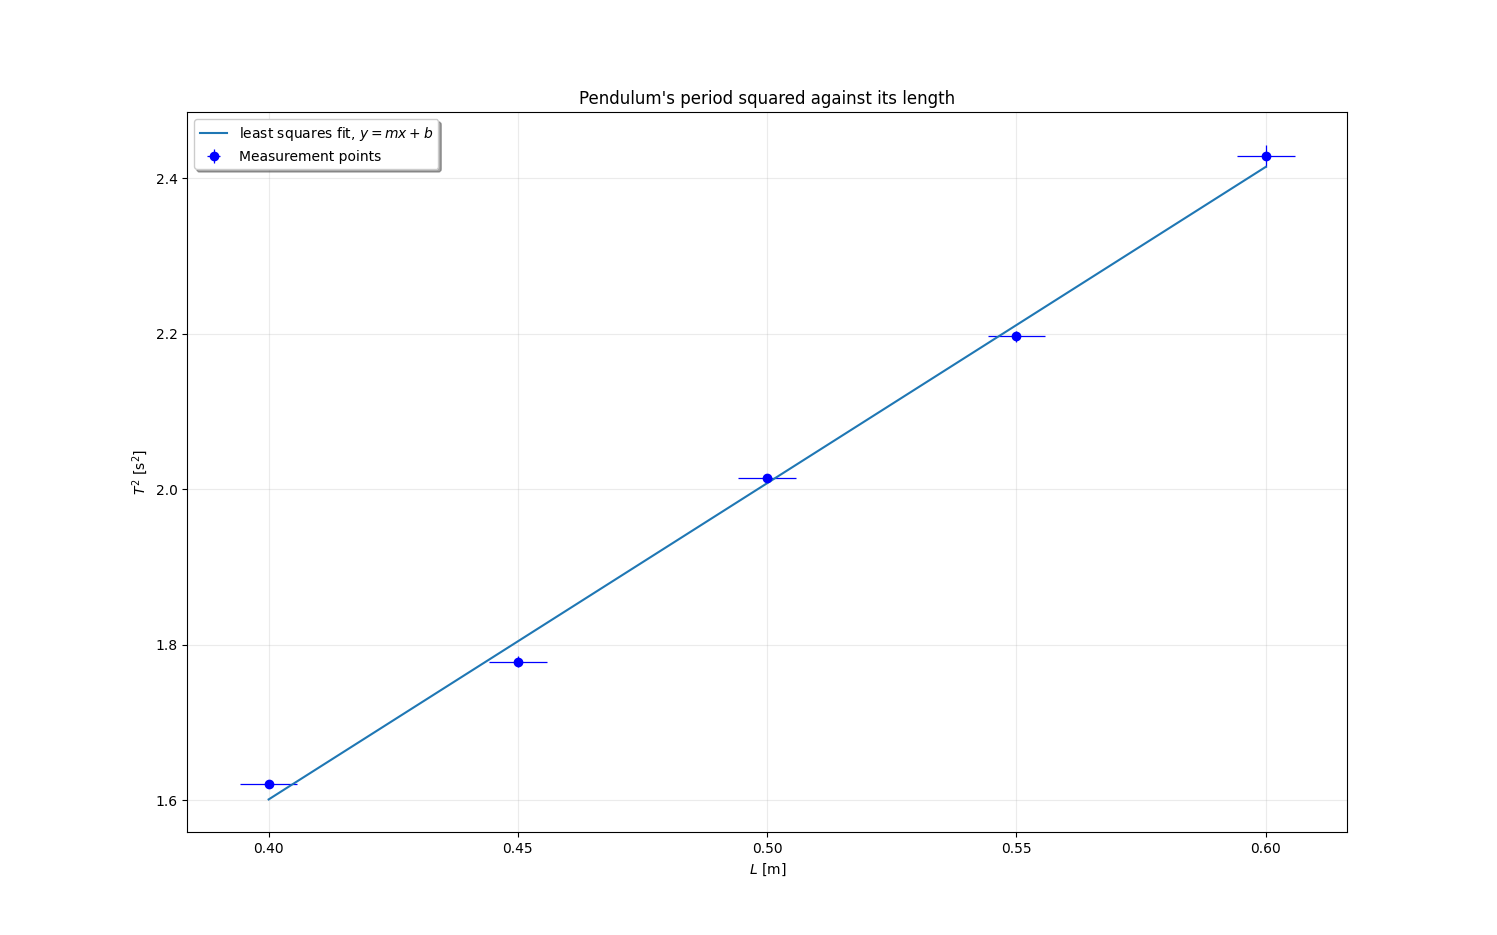
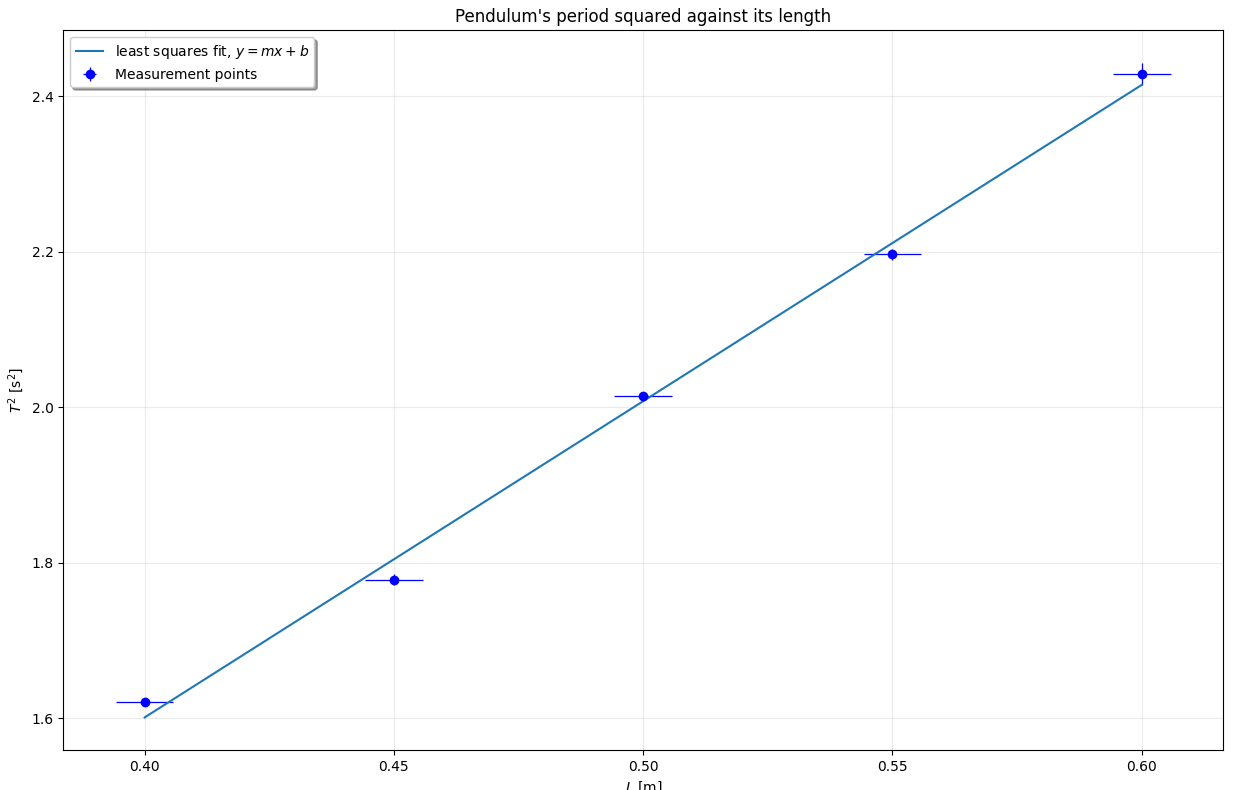
modified README and the picture 5

diff --git a/README.md b/README.md
@@ -431,7 +431,7 @@ After typing all the values, the measurements table is printed, which part is sh
 and the best approximated linear function for the model, found with the least squares method:
 
 <figure>
-<center><img src="5.png" style="width:85%"></center>
+<center><img src="5.png" style="width:100%"></center>
 </figure>
 
 At last, the information about calculated value $g$ is shown with its uncertainty:
